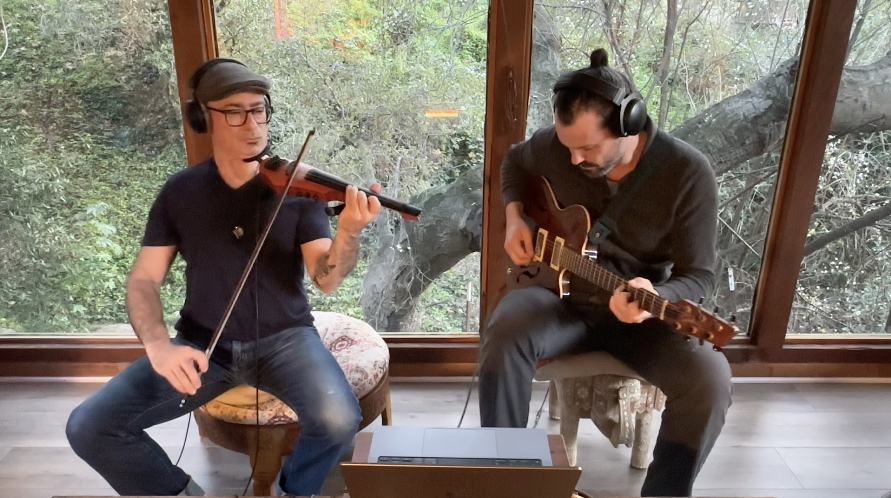
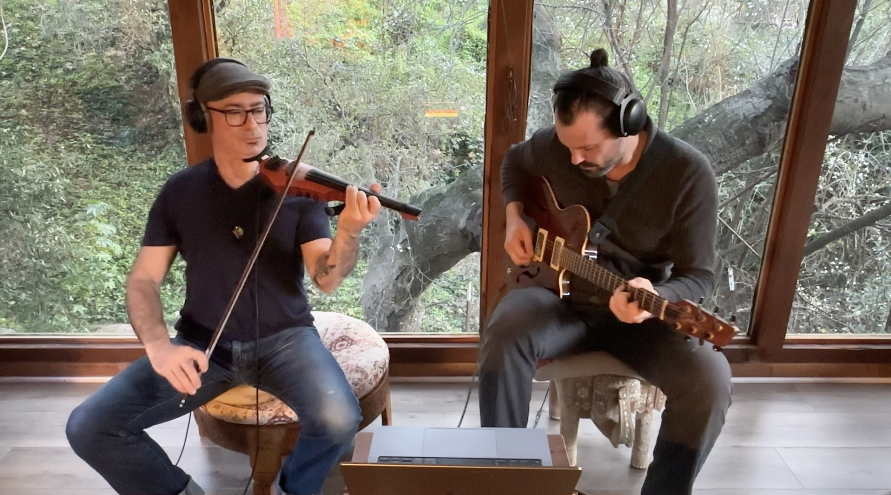
Trim bottom edge of duo thumbnail, drop controls 0.75in

diff --git a/about.html b/about.html
@@ -531,7 +531,7 @@
         <video id="video-player-2" poster="/assets/photo/Josh_alan_light_vid_thumb.png" preload="auto" loop>
           <source src="/assets/video/josh_alan_duo_light_topanga.mp4" type="video/mp4">
         </video>
-        <div class="player-controls" style="margin-top: 1rem;">
+        <div class="player-controls" style="margin-top: calc(1rem + 72px);">
           <button id="video-play-pause-btn-2" style="flex-shrink:0;width:48px;height:48px;border-radius:50%;border:1.5px solid var(--accent);background:none;cursor:pointer;display:flex;align-items:center;justify-content:center;">
             <svg id="video-play-icon-2" viewBox="0 0 24 24" style="width:20px;height:20px;fill:var(--accent);"><path d="M8 5v14l11-7z"/></svg>
             <svg id="video-pause-icon-2" viewBox="0 0 24 24" style="display:none;width:20px;height:20px;fill:var(--accent);"><path d="M6 4h4v16H6V4zm8 0h4v16h-4V4z"/></svg>
